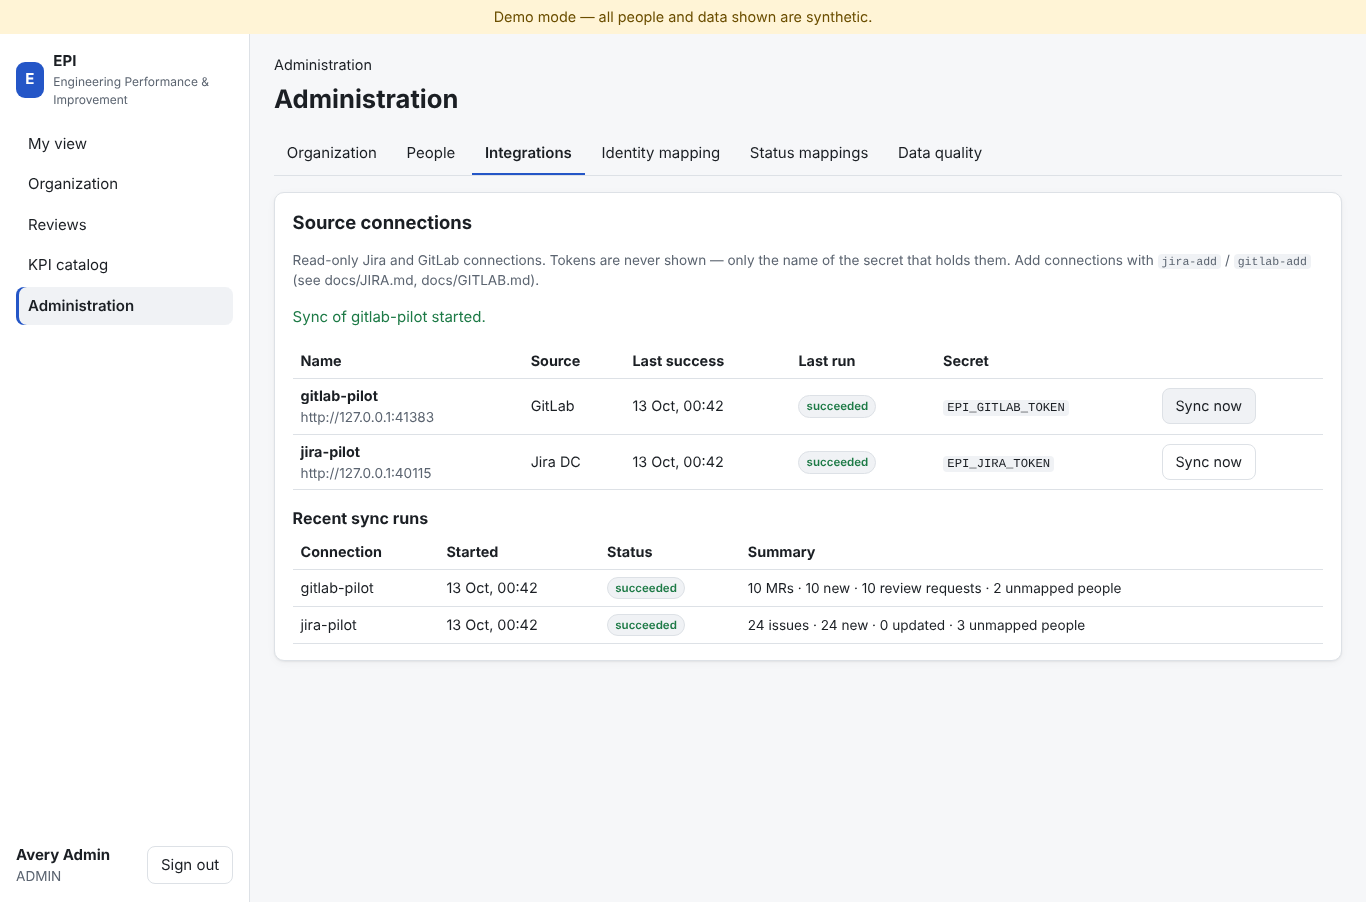
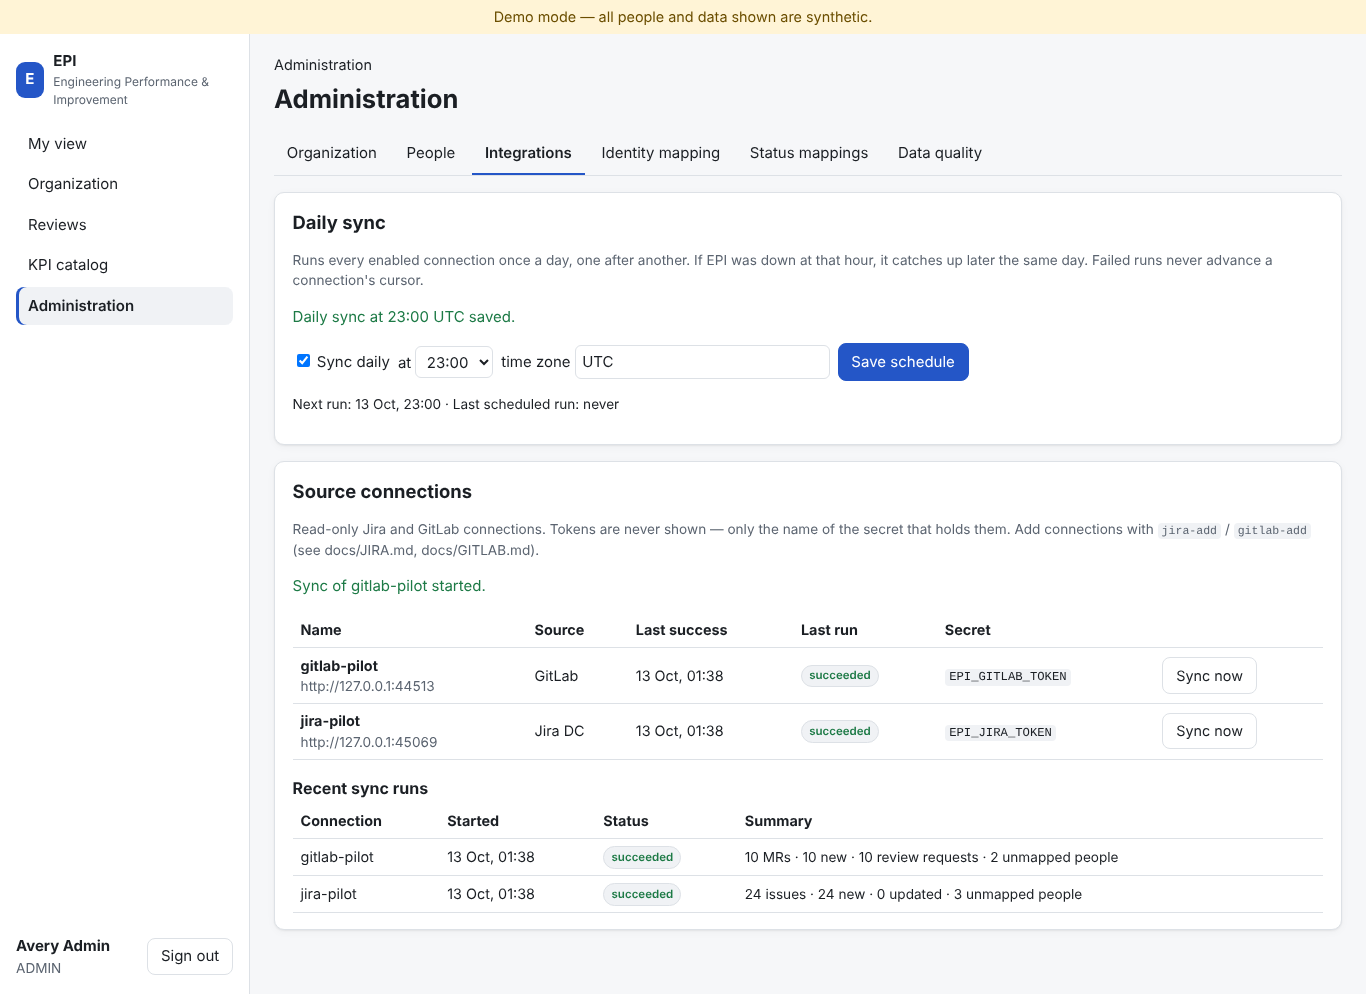
test(e2e): cover daily sync schedule; refresh integrations screenshot

diff --git a/e2e/admin.spec.ts b/e2e/admin.spec.ts
@@ -36,6 +36,24 @@ test('admin syncs sources, maps identities and statuses, and sees data quality',
   }
   await expect(page.getByText(/24 issues · 24 new/)).toBeVisible();
   await expect(page.getByText(/10 MRs · 10 new · 10 review requests/)).toBeVisible();
+
+  // Daily sync: 23:00 in a zone where that hour is still ahead, so no run starts mid-test.
+  const zone = ['UTC', 'Asia/Jerusalem', 'America/New_York', 'Pacific/Kiritimati'].find(
+    (tz) =>
+      Number(
+        new Intl.DateTimeFormat('en-GB', {
+          timeZone: tz,
+          hour: '2-digit',
+          hourCycle: 'h23',
+        }).format(new Date()),
+      ) < 22,
+  )!;
+  await page.getByRole('checkbox', { name: /Sync daily/ }).check();
+  await page.getByRole('combobox', { name: /^at/ }).selectOption('23:00');
+  await page.getByRole('combobox', { name: /time zone/ }).fill(zone);
+  await page.getByRole('button', { name: 'Save schedule' }).click();
+  await expect(page.getByText(`Daily sync at 23:00 ${zone} saved.`)).toBeVisible();
+  await expect(page.getByText(/Next run: \d/)).toBeVisible();
   await shot(page, '25-admin-integrations');
 
   // Identity mapping: map Jira and GitLab accounts of Dana to the synthetic person Dana Dev.
